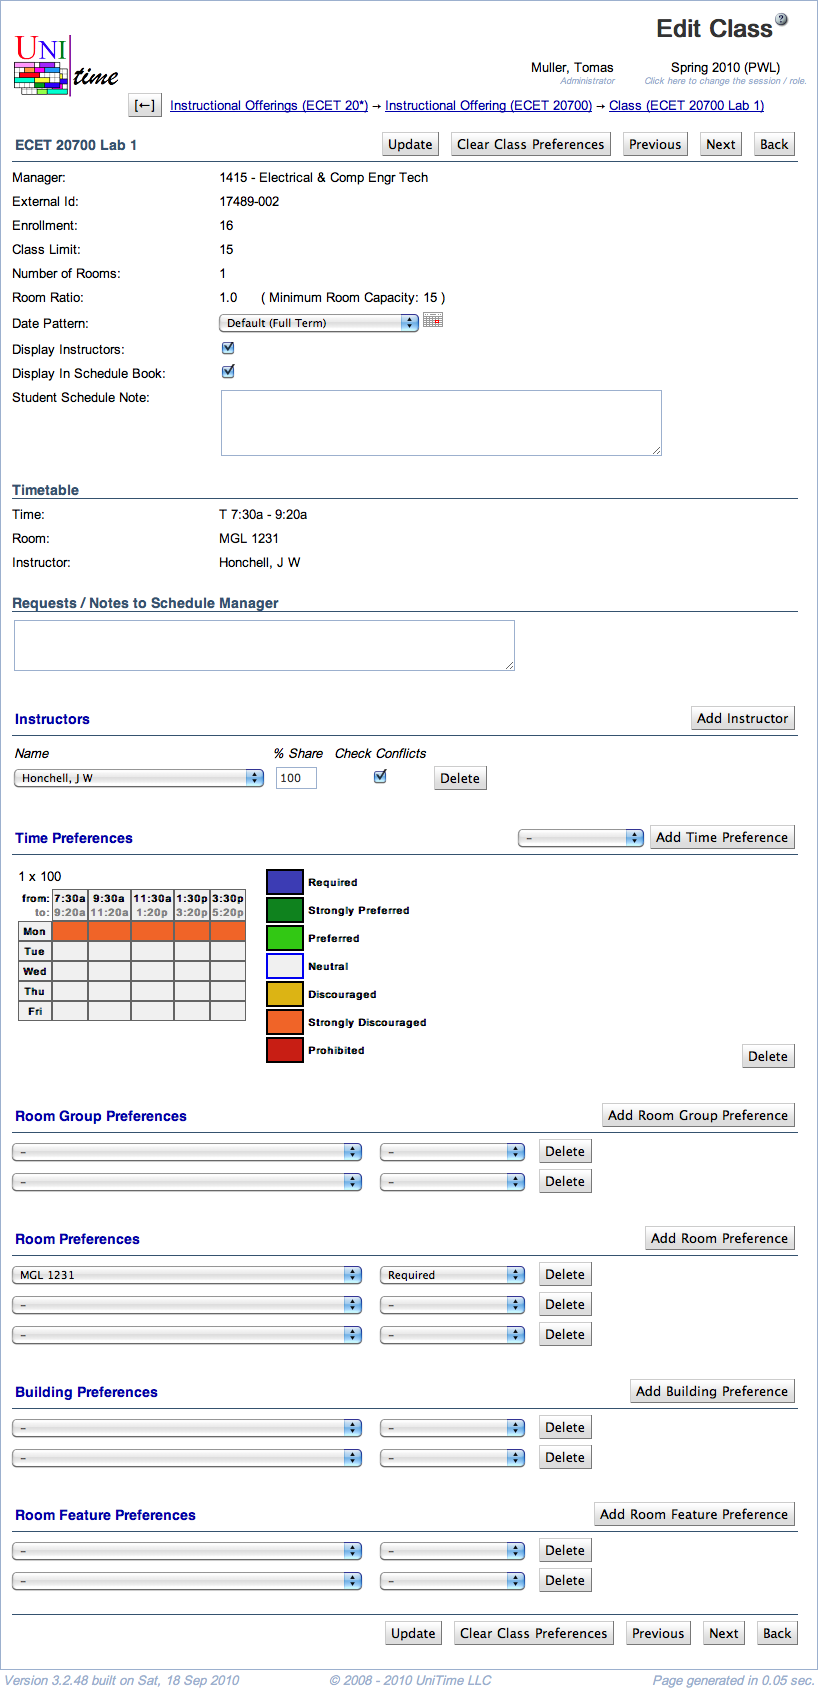
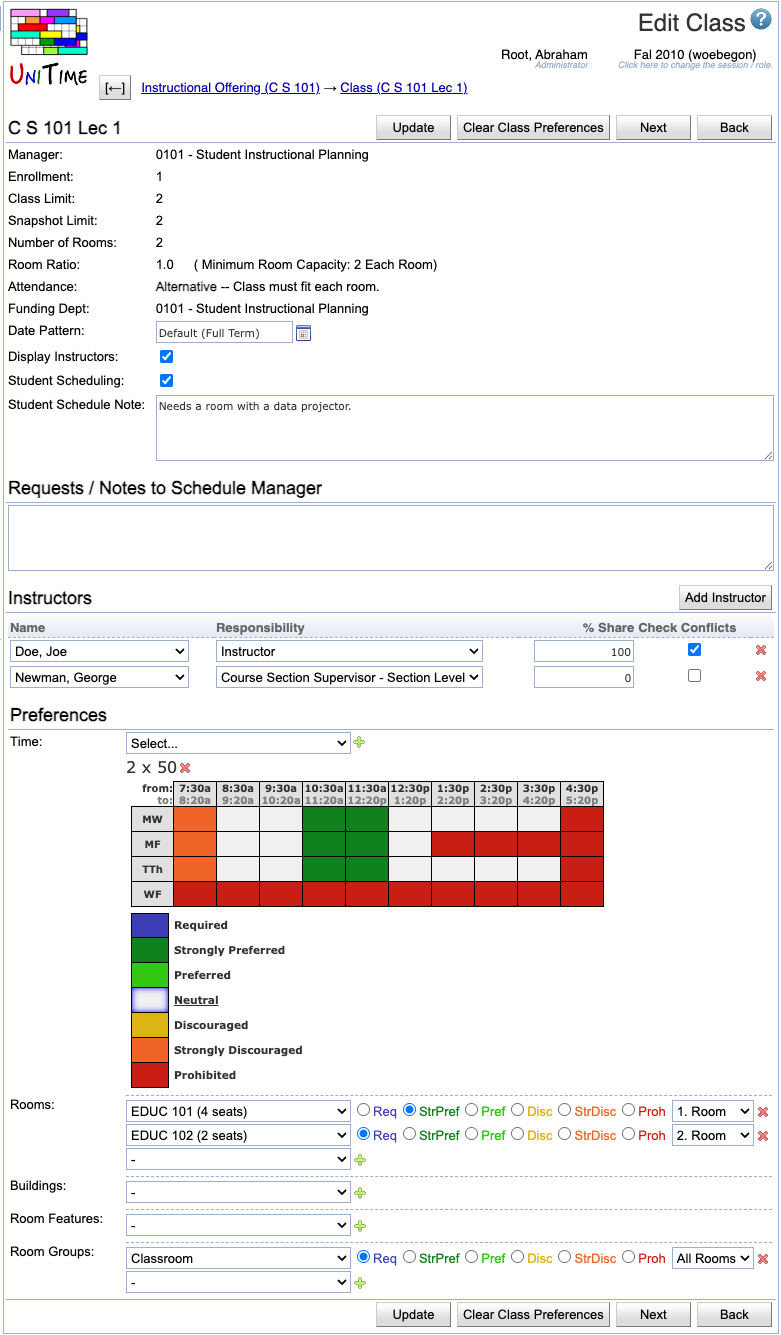
Edit Class
- new screenshots, new fields, text cleanup

Changed region(s): [[0.0, 0.0, 1.0, 1.0], [0.6146, 0.3685, 0.6453, 0.3993]]

diff --git a/edit-class.md b/edit-class.md
@@ -6,7 +6,7 @@ title: Edit Class
 
 ## Screen Description
 
-In the Class Edit screen, you can change a few properties of the class and enter preferences. The rules explaining how preferences are applied on classes are located in [Application Of Preferences](application-of-preferences). Changes made to this screen are not saved until you click on the Update, Previous, or Next button.
+In the Class Edit screen, you can change a few properties of the class and enter preferences. The rules explaining how preferences are applied to classes are located in [Application Of Preferences](application-of-preferences). Changes made to this screen are not saved until you click on the Update, Previous, or Next button.
 
 ![Edit Class](images/edit-class-1.png){:class='screenshot'}
 
@@ -15,170 +15,172 @@ In the Class Edit screen, you can change a few properties of the class and enter
 The following fields are displayed in the upper part of the screen (below the name of the class):
 
 * **Manager**
-	* Manager responsible for timetabling of this class
-	* Editable in the [Multiple Class Setup](multiple-class-setup) screen
+    * Manager responsible for timetabling of this class
+    * Editable in the [Multiple Class Setup](multiple-class-setup) screen
 
 * **Enrollment**
-	* Number of enrolled students (if available)
+    * Number of enrolled students (if available)
 
 * **Class Limit**
-	* Number of students that should be able to register for a given class
-	* Editable in the [Multiple Class Setup](multiple-class-setup) screen
+    * Number of students that should be able to register for a given class
+    * Editable in the [Multiple Class Setup](multiple-class-setup) screen
+
+* **Snapshot Limit**
+    * The class limit at the time the [Limit and Projection Snapshot](limit-and-projection-snapshot) was taken.
 
 * **Number Of Rooms**
-	* Number of rooms that you need for a class (usually one)
-	* Editable in the [Multiple Class Setup](multiple-class-setup) screen
+    * Number of rooms that you need for a class (usually one)
+    * Editable in the [Multiple Class Setup](multiple-class-setup) screen
 
 * **Room Ratio**
-	* The ratio of the required room size to the class limit
-		* Room Ratio = Room Size / Class Limit
-	* In almost all cases, this is one
-	* Some exceptions to the norm
-		* You need a room for fewer students than the class limit (Room Ratio is less than one)
-		* You need a room for a class with zero limit. In this case, Room Ratio needs to contain the required room size
-	* In parenthesis after the room ratio, you can see the minimum room capacity required for this class (for Class Limit <> 0, it is calculated as Minimum Room Capacity = Room Ratio * Class Limit; if Class Limit = 0, then Minimum Room Capacity = Room Ratio)
-	* Editable in the [Multiple Class Setup](multiple-class-setup) screen
+    * The ratio of the required room size to the class limit
+        * Room Ratio = Room Size / Class Limit
+    * In almost all cases, this is one
+    * Some exceptions to the norm
+        * You need a room for fewer students than the class limit (Room Ratio is less than one)
+        * You need a room for a class with zero limit. In this case, Room Ratio needs to contain the required room size
+    * In parenthesis after the room ratio, you can see the minimum room capacity required for this class (for Class Limit <> 0, it is calculated as Minimum Room Capacity = Room Ratio * Class Limit; if Class Limit = 0, then Minimum Room Capacity = Room Ratio)
+    * Editable in the [Multiple Class Setup](multiple-class-setup) screen
+
+* **Attendance**
+    * When there are two or more rooms required for the class
+    * **Split Attendance** means that students are expected to split between the two (or more) rooms. That is the total capacity of the assigned room &times; the room ratio must be equal to or greater than the class limit.
+    * **Alternative Attendance** means that all students are expected to be able to fit in any of the assigned rooms. That is, the room capacity of any assigned room &times; the room ratio must be equal to or greater than the class limit.
+    * Editable in the [Multiple Class Setup](multiple-class-setup) screen
+
+* **Funding Dept**
+    * The department providing funding for this class.
+    * This field is not visible by default.  To enable this field, the `unitime.courses.funding_departments_enabled` application property must be set to `true`.
+    * Editable in the [Multiple Class Setup](multiple-class-setup) screen
 
 * **Date Pattern**
-	* Days/weeks throughout the semester during which this class will be taught
-	* To change the date pattern, select the new date pattern from the drop down list
-	* You can click on the icon of the calendar to see which dates belong to the selected date pattern
+    * Days/weeks throughout the semester during which this class will be taught
+    * To change the date pattern, select the new date pattern from the drop-down list
+    * You can click on the icon of the calendar to see which dates belong to the selected date pattern
+    * By default, a drop-down is used. It can be changed to a searchable box by setting `unitime.classEdit.searchableDatePattern` to `true`
 
 * **Display Instructors**
-	* When checked (and it is checked by default), the instructors for this class will be displayed in the online Schedule of Classes
-	* When not checked, the instructors will not be displayed in the online Schedule of Classes, and his/her name will have to be re-entered for reporting purposes
+    * When checked (and it is checked by default), the instructors for this class will be displayed in the online Schedule of Classes
+    * When not checked, the instructors will not be displayed in the online Schedule of Classes, and his/her name will have to be re-entered for reporting purposes
 
 * **Student Scheduling**
-	* When checked (and it is checked by default), the class will be avaliable to students during student scheduling
-	* When not checked, the class will be treated as with zero limit during student scheduling (only students with individual reservations will be able to get in) - the class not to be displayed is in italics wherever it is listed
+    * When checked (and it is checked by default), the class will be available to students during student scheduling
+    * When not checked, the class will be treated as with zero limit during student scheduling (only students with individual reservations will be able to get in) - the class not to be displayed is in italics wherever it is listed
 
 * **Student Schedule Note**
-	* The class note that will be displayed in the online Schedule of Classes
-
-In the **Timetable** part, you see the time, room and instructor assigned to this class (once a timetable has been created)
-
-* Normally, a committed timetable is displayed, unless there is a different timetable selected or loaded into the solver for the given class
-
-* If there is a timetable loaded into the solver and a timetable selected, the loaded one is displayed
-
-* See documentation for [Timetables](timetables) page for more details
+    * The class note that will be displayed in the online Schedule of Classes
 
 The text field in **Requests / Notes to Schedule Manager** is there for Requests/Notes for the manager who will timetable this class.
 
-In the **Instructors**, the following information is displayed and can be edited
+In the **Instructors**, the following information is displayed and can be edited.
 
 * **Name**
-	* Select an instructor's name from the drop down list
-	* If a name is missing from this list, you need to add the person to your list through the [Instructors](instructors) screen
-
+    * Select an instructor's name from the drop-down list
+    * If a name is missing from this list, you need to add the person to your list through the [Instructors](instructors) screen
 * **Share**
-	* The percentage of teaching activity for this class associated with this instructor
-
+    * The percentage of teaching activity for this class associated with this instructor
 * **Check Conflicts**
-	* When checked, the instructor's preferences are considered during departmental timetabling; also, checks are performed for this instructor to make sure there is no conflict for him/her between this class and his/her other classes (such as teaching two classes at the same time)
-	* When not checked, the instructor's assignment to this class is ignored during timetabling; no conflict checking will be performed between this class and his/her other classes
-
+    * When checked, the instructor's preferences are considered during departmental timetabling; also, checks are performed for this instructor to make sure there is no conflict for them between this class and their other classes (such as teaching two classes at the same time)
+    * When not checked, the instructor's assignment to this class is ignored during timetabling; no conflict checking will be performed between this class and their other classes
+* **Responsibility**
+    * When teaching responsibilities are defined, the instructor's teaching responsibility can be selected here.
+    * Teaching responsibilities can be defined on the [Teaching Responsibilities](teaching-responsibilities) page in the administration.
 * Operations
-	* **Add Instructor** (Alt+I)
-		* Add another instructor to the same class
-	* **Delete**
-		* Remove a given instructor's name from the class
+    * **Add Instructor** (Alt+I)
+        * Add another instructor to the same class
+    * **Delete** (![Delete](images/icon-delete.png)  icon)
+        * Remove a given instructor's name from the class
 
 ## Preferences
 
-**Time Preferences**
+**Time**
 
-* If you don't see any time grid, you need to select a time pattern from the drop down list and click **Add Time Preference** (Alt+T)
-
+* If you don't see any time grid, you need to select a time pattern from the drop-down list and click the ![Add](images/icon-add.png) plus icon
 * You can have more than one possible time pattern for your class - in that case, perform the previous step again to add another time grid
-
 * Indicate the time preferences by filling in the time slots with appropriate colors (click on the colored square in the legend and then on the squares in the time grid that you want to fill in with this preference level)
-
-* Click on the day of week (or combination of days of week) to fill in the grid for the whole day (or combination of days)
-
+* Click on the day of the week (or combination of days of the week) to fill in the grid for the whole day (or combination of days)
 * Click on a particular time to fill in the grid for this time (across all the days)
+* Click on the upper left-hand side corner (which has "from:" and "to:") to fill in the whole time grid
+* To delete a time pattern, click on the ![Delete](images/icon-delete.png) cross icon next to the pattern name
 
-* Click on the upper left hand side corner (which has "from:" and "to:") to fill in the whole time grid
+* **Note:** Only time patterns that match the duration set on the scheduling subpart (on the [Instructional Offering Configuration](instructional-offering-configuration) screen) are available in the drop-down. When *Minutes per Week* is used, that means that the number of minutes per week set on the subpart must equal the number of meetings per week &times; minutes per meeting set on the time pattern.
 
-* To delete a time pattern that you do not need, click **Delete** next to the time pattern
+* **Note:** To express that, e.g., the classes of this scheduling subpart can only be taught on Monday, Wednesday, and Friday, fill in Tuesday and Thursday times as "Prohibited" (as opposed to setting Monday, Wednesday, and Friday as "Required"); this leaves you the flexibility to indicate preferred or discouraged times within Monday, Wednesday, and Friday
 
-* Note: To express that e.g. the class can only be taught on Monday, Wednesday, and Friday, fill in Tuesday and Thursday times as "Prohibited" (as opposed to setting Monday, Wednesday, and Friday as "Required"); this leaves you flexibility to indicate preferred or discouraged times within Monday, Wednesday, and Friday
+**Date Patterns**
 
-**Room Group Preferences**
-
-* Select a room group from the first drop down list and the preference level from the second drop down list
-
-* You can see only those room groups that are applicable to classes of the given manager (for example, for Large Lecture Room classes you can see groups of large lecture rooms); for your departmental classes, you can see only those room groups that are listed in your [Room Groups](room-groups) screen - if you need to add another room group, go to the menu, to Courses → Input Data → [Room Groups](room-groups)
-
-* To add more lines for additional room group preferences, click on **Add Room Group Preference** (Alt+G)
-
-* To delete a line with a room group preference, click on the **Delete** button on that line
-
+* Select a date pattern from the first drop-down list and the preference level from one of the options
+* To add more lines for additional date pattern preferences, click the ![Add](images/icon-add.png) plus icon
+* To delete a line with a date pattern preference, click on the ![Delete](images/icon-delete.png) cross icon on that line
 * Blank lines are ignored
+
+* **Note:** Date pattern preferences are only available when a date pattern of the *Pattern Set* type is selected on the scheduling subpart (containing a list of time patterns, such as *1x* for all one-week date patterns)
+
 
 **Room Preferences**
 
-* Select a room from the first drop down list and the preference level from the second drop down list
-
-* You can see only those rooms that listed in the [Rooms](rooms) screen for the department managed by the manager listed in your Edit Class screen (look at [Rooms](rooms) to see how to add new rooms to your list of departmental rooms)
-
-* To add more lines for additional room preferences, click on **Add Room Preference** (Alt+R)
-
-* To delete a line with a room preference, click on the **Delete** button on that line
-
+* Select a room from the first drop-down list and the preference level from one of the options
+* You can see only those rooms that are listed in the [Rooms](rooms) screen for the department managed by the manager listed in your Edit Scheduling Subpart screen (look at [Rooms](rooms) to see how to add new rooms to your list of departmental rooms)
+* To add more lines for additional room preferences, click the ![Add](images/icon-add.png) plus icon
+* To delete a line with a room preference, click on the ![Delete](images/icon-delete.png) cross icon on that line
 * Blank lines are ignored
+
+* **Note:** If a class requires two or more rooms, you can also select which room (s) the preference applies to in an additional drop-down.
 
 **Building Preferences**
 
-* Select a building from the first drop down list and the preference level from the second drop down list
-
-* You can see only those buildings that are listed in your [Rooms](rooms) screen for the department of this class's manager
-
-* To add more lines for additional building preferences, click on **Add Building Preference** (Alt+D)
-
-* To delete a line with a building preference, click on the **Delete** button on that line
-
+* Select a building from the first drop-down list and the preference level from one of the options
+* You can see only those buildings that are listed in your [Rooms](rooms) screen for the department of this scheduling subpart's manager
+* To add more lines for additional building preferences, click the ![Add](images/icon-add.png) plus icon
+* To delete a line with a building preference, click on the ![Delete](images/icon-delete.png) cross icon on that line
 * Blank lines are ignored
+
+* **Note:** If a class requires two or more rooms, you can also select which room (s) the preference applies to in an additional drop-down.
 
 **Room Feature Preferences**
 
-* Select a room feature from the first drop down list and the preference level from the second drop down list
-
+* Select a room feature from the first drop-down list and the preference level from one of the options
 * You can see only those room features that are listed in the [Rooms](rooms) screen
-
 * If you need to add another room feature for your departmental rooms, go to the menu, to Courses → Input Data → [Room Features](room-features)
-
-* To add more lines for additional room feature preferences, click on **Add Room Feature Preference** (Alt+F)
-
-* To delete a line with a room feature preference, click on the **Delete** button on that line
-
+* To add more lines for additional room feature preferences, click the ![Add](images/icon-add.png) plus icon
+* To delete a line with a room feature preference, click on the ![Delete](images/icon-delete.png) cross icon on that line
 * Blank lines are ignored
+
+* **Note:** If a class requires two or more rooms, you can also select which room (s) the preference applies to in an additional drop-down.
+
+**Room Group Preferences**
+
+* Select a room group from the first drop-down list and the preference level from one of the options
+* You can see only those room groups that are applicable to classes of the given manager (for example, for LLR classes you can see groups of large lecture rooms); for your departmental classes, you can see only those room groups that are listed in your [Room Groups](room-groups) screen - if you need to add another room group, go to the menu, to Courses → Input Data → [Room Groups](room-groups)
+* To add more lines for additional room group preferences, click the ![Add](images/icon-add.png) plus icon
+* To delete a line with a room group preference, click on the ![Delete](images/icon-delete.png) cross icon on that line
+* Blank lines are ignored
+
+* **Note:** If a class requires two or more rooms, you can also select which room (s) the preference applies to in an additional drop-down.
 
 ## Operations
 
 * **Update** (Alt+U)
-	* Save changes and go back to the [Class Detail](class-detail) screen
+    * Save changes and go back to the [Class Detail](class-detail) screen
 
 * **Clear Class Preferences** (Alt+C)
-	* Clear all the class preferences in this page and go back to the [Class Detail](class-detail) screen (where you can see that the preferences have been cleared)
-	* Preferences will be inherited from the scheduling subpart and/or the instructor
+    * Clear all the class preferences in this page and go back to the [Class Detail](class-detail) screen (where you can see that the preferences have been cleared)
+    * Preferences will be inherited from the scheduling subpart and/or the instructor
 
 * **Previous** (Alt+P)
-	* Save changes and go to the Edit Class screen for the previous class
+    * Save changes and go to the Edit Class screen for the previous class
 
 * **Next** (Alt+N)
-	* Save the preferences and go to the Edit Class screen for the next class
+    * Save the preferences and go to the Edit Class screen for the next class
 
 * **Back** (Alt+B)
-	* Go back to the [Class Detail](class-detail) screen without saving any changes
+    * Go back to the [Class Detail](class-detail) screen without saving any changes
 
 ## Notes
 
 **Room Groups vs. Room Features**
 
 The difference between room groups and room features is as follows:
-
 * If you require more than one room group for a given class, it is sufficient if the assigned room belongs to one of them
-
 * If you require more than one room feature, the assigned room has to have all of them
 
